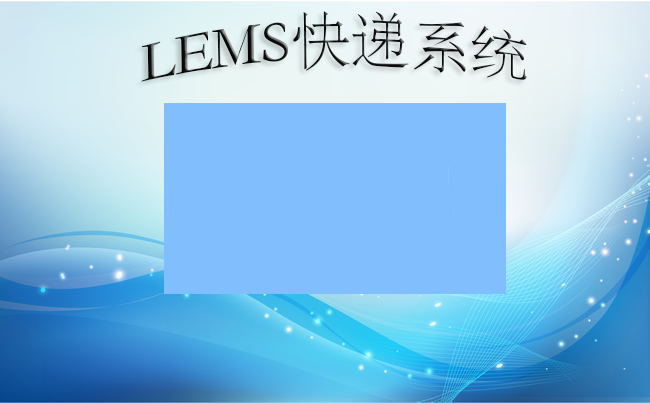
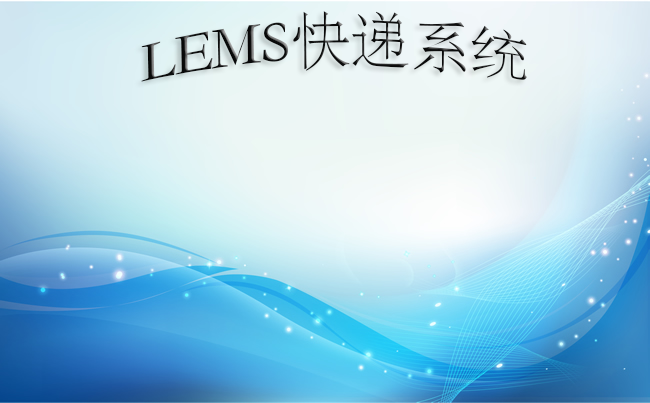
..

Changed region(s): [[0.2462, 0.2382, 0.8, 0.7444]]

diff --git a/LEMS_Client/src/main/java/LEMS/presentation/LoginUi.java b/LEMS_Client/src/main/java/LEMS/presentation/LoginUi.java
@@ -34,6 +34,8 @@ public class LoginUi extends JPanel {
 	JTextField textName = new JTextField();
 	JPasswordField textPassword = new JPasswordField();
 	JLabel Return = new JLabel(new ImageIcon("Close.png"));
+	JLabel account = new JLabel(new ImageIcon("account.png"));
+	JLabel password = new JLabel(new ImageIcon("password.png"));
 
 	public LoginUi(final MainFrame mainFrame) {
 		Icon i = new ImageIcon("Return.png");
@@ -45,6 +47,8 @@ public class LoginUi extends JPanel {
 
 		Return.setBounds(920, 10, 100, 100);
 		
+		account.setBounds(400, 239, 40, 40);
+		password.setBounds(400, 348, 40, 200);
 		textName.setBounds(482, 239, 251, 56);
 		textPassword.setBounds(482, 348, 251, 56);
 
@@ -67,6 +71,8 @@ public class LoginUi extends JPanel {
 		this.add(textName);
 		this.add(textPassword);
 		this.add(Return);
+		this.add(account);
+		this.add(password);
 
 		this.setBounds(0, 0, MainFrame.JFRAME_WIDTH, MainFrame.JFRAME_HEIGHT);
 		im = Toolkit.getDefaultToolkit().getImage("backGround.png");
